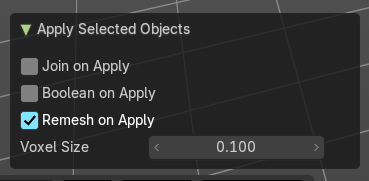
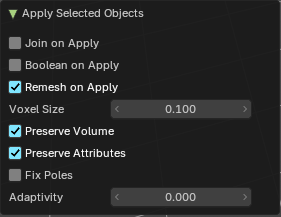
Apply Selected Objects: remesh options in Adjust Last Operation (#1783)
* Apply Selected Objects: remesh options in Adjust Last Operation

* Apply Selected Objects: new Adjust Last Operation capture; Curve to Tube: Grease Pencil input and panels

* docs: page status → needs-review [docs-bot]

---------

diff --git a/docs2/content/editors/3d-viewport/object-mode/header.md b/docs2/content/editors/3d-viewport/object-mode/header.md
@@ -2144,8 +2144,12 @@ Change the settings of **Apply Selected Objects** right after you use it, in the
 | ---------------- | --------------------------------------------------------------------------------- |
 | Join on Apply | Applies and joins the selected meshes into one mesh. |
 | Boolean on Apply | Applies and joins the selected meshes into one mesh with boolean union operators. |
-| Remesh on Apply | Applies and joins the selected meshes into one mesh with a voxel remesh operator. |
+| Remesh on Apply | Applies and joins the selected meshes into one mesh with a voxel remesh operator. The settings below only apply to this option. |
 | Voxel Size | Changes the resolution of the Voxel Size of the new remesh operator. |
+| Preserve Volume | Projects the remeshed surface back onto the original, so it keeps its volume and details. |
+| Preserve Attributes | Transfers all attributes (such as colors and UV maps) to the new mesh. |
+| Fix Poles | Produces fewer poles and a better topology flow. |
+| Adaptivity | Reduces the face count by simplifying flat areas where detail is not needed. 0 keeps every face. |
 
 
 ## Snap

diff --git a/docs2/content/editors/geometry-node-editor/header/add-menu/generate.md b/docs2/content/editors/geometry-node-editor/header/add-menu/generate.md
@@ -9,7 +9,7 @@ path:
   - "Add Menu"
   - "Generate"
 version: "5.1"
-status: draft
+status: needs-review
 icon: node
 summary: "Generate nodes."
 order: 150
@@ -49,7 +49,9 @@ Generate and manage an array of elements.
 
 ![Curve to Tube](/docs2/images/editors/geometry-node-editor/header/add-menu-generate/curve-to-tube.png)
 
-Convert a curve to a tube geometry.
+Convert a curve to a tube geometry. The input can be a curve or Grease Pencil strokes. For strokes, the attributes (such as color) are passed on to the tube mesh.
+
+The settings are grouped in the panels Profile, Miter Scale, Resample, Caps, UV Map and Grease Pencil Material. The Grease Pencil Material panel decides which material the tubes made from strokes use.
 
 ### Scatter on Surface
 
